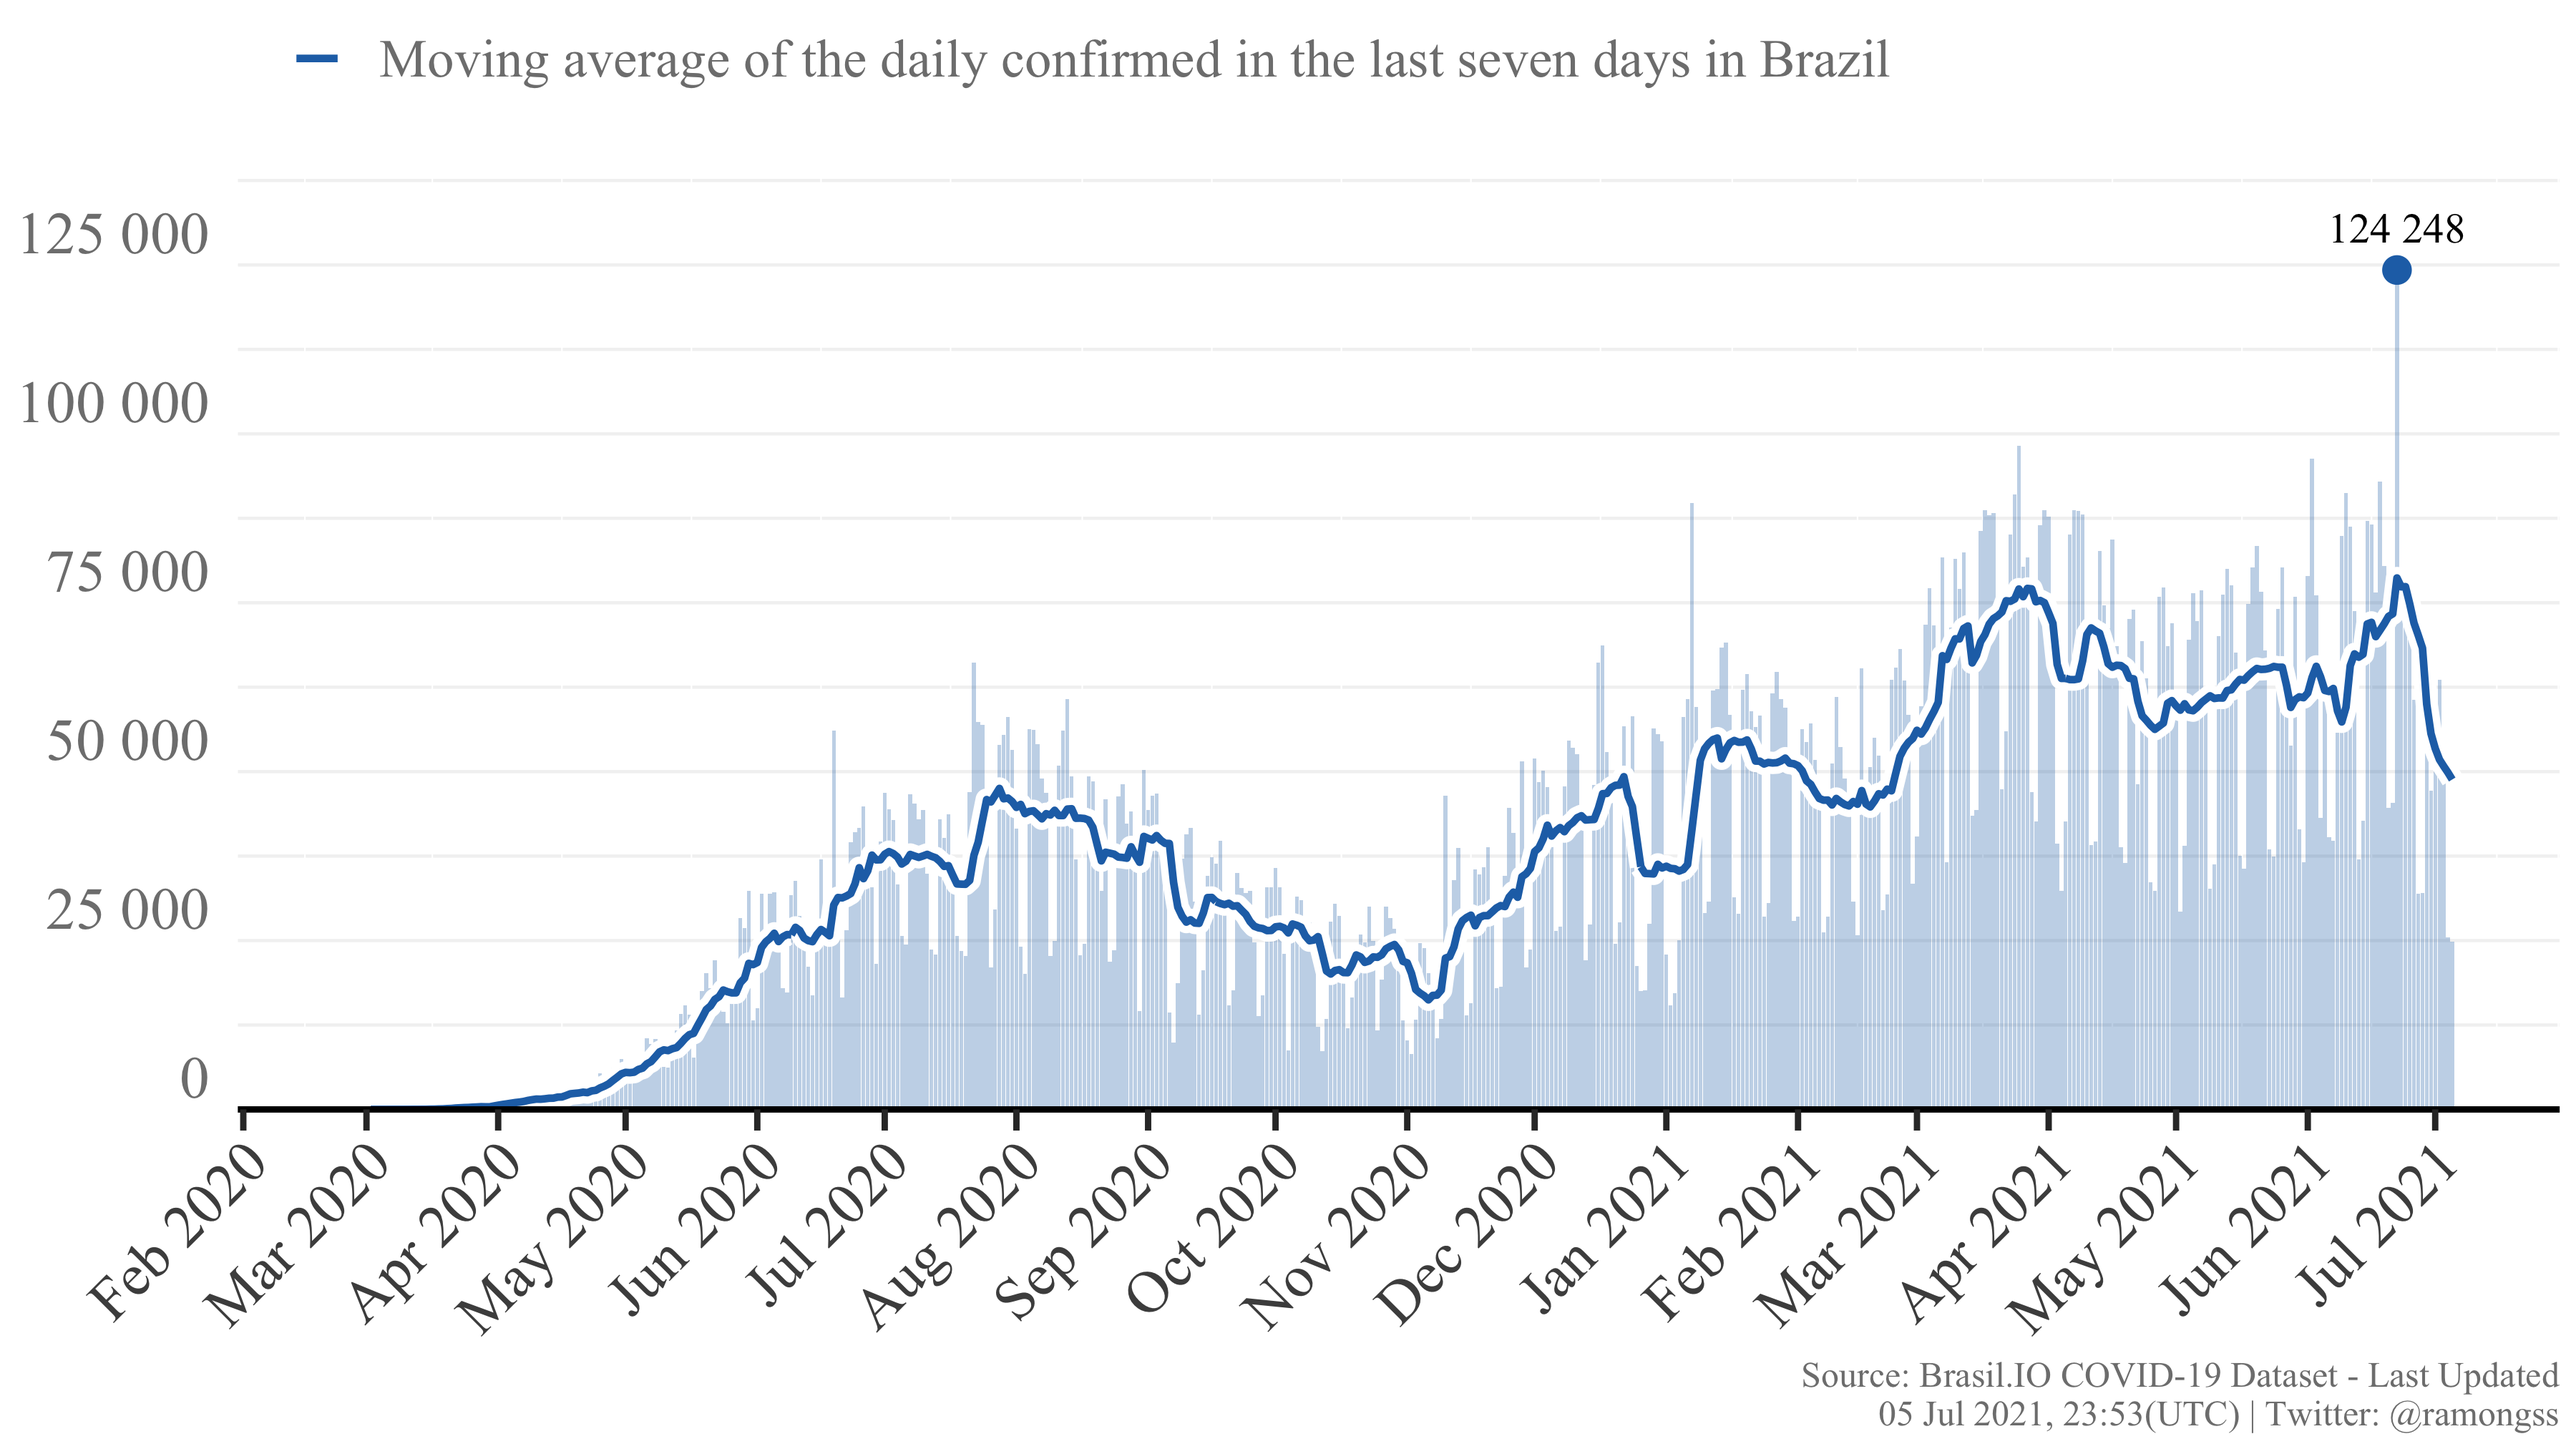
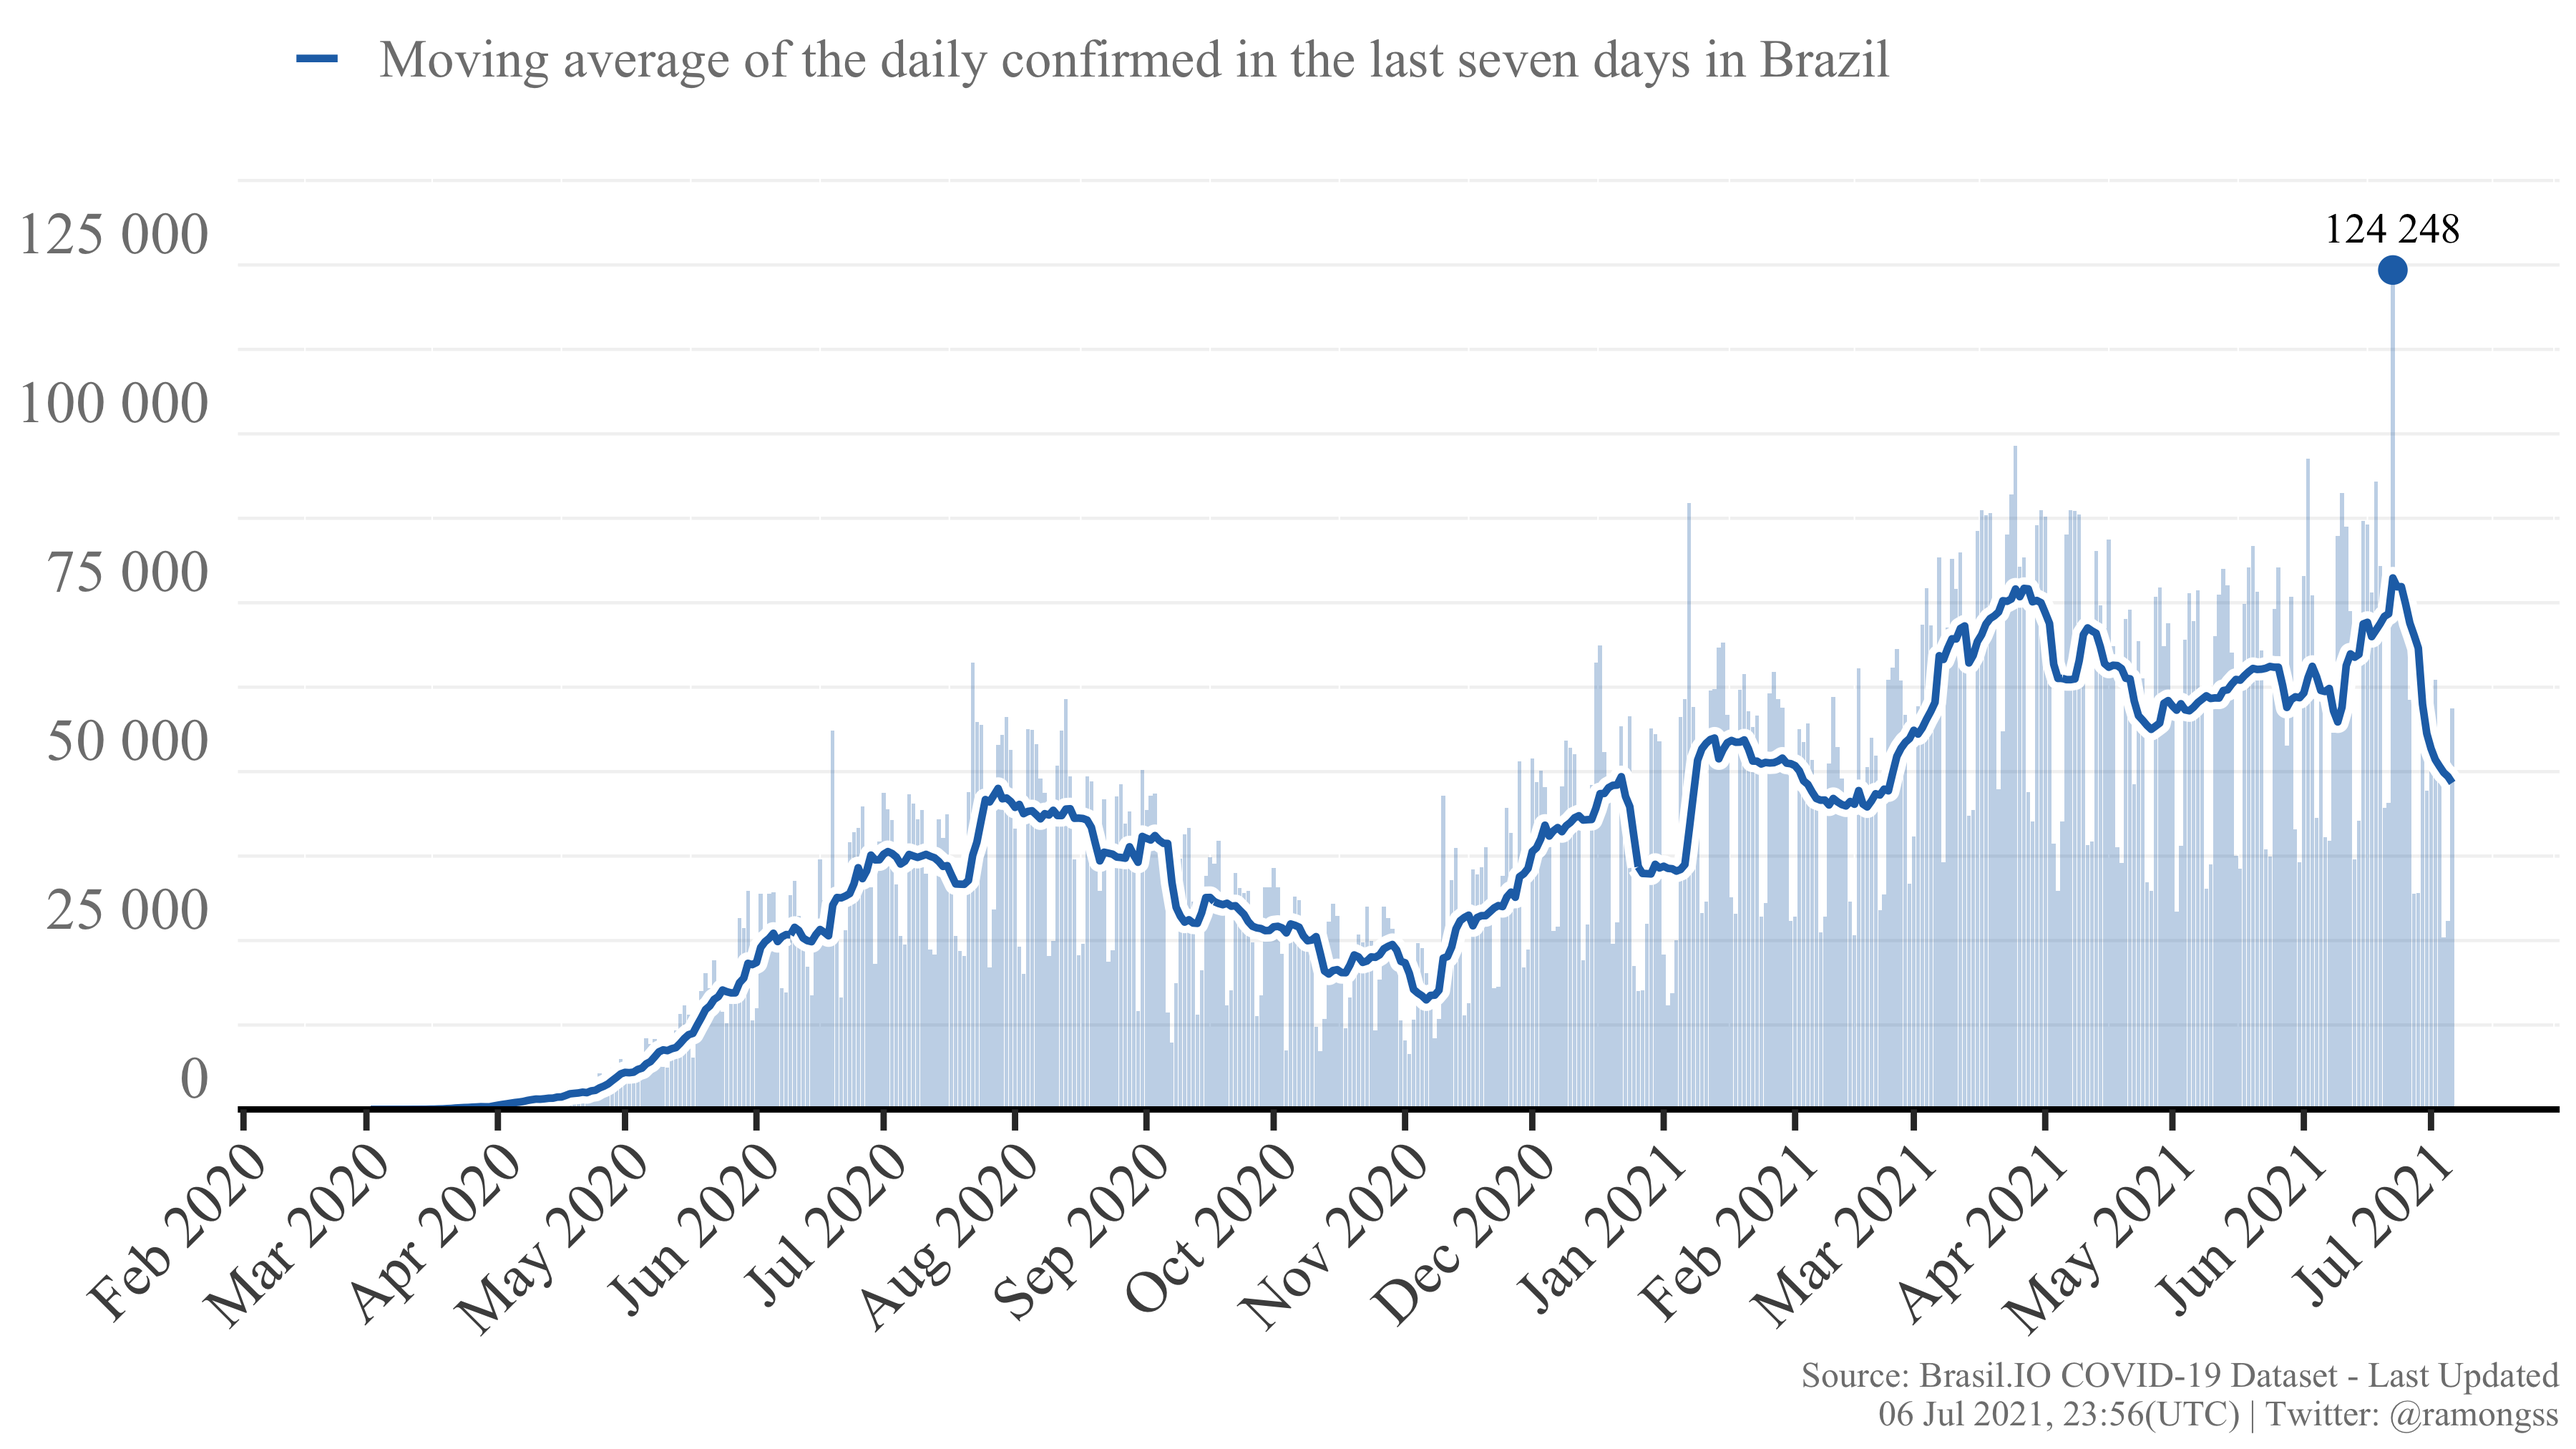
Re-build README.Rmd

diff --git a/README.md b/README.md
@@ -27,8 +27,8 @@ download_brasilio_table <- function(dataset = "covid19", table_name){
 
 ## COVID-19 Confirmed cases
 
-Currently, Brazil has a total of **18,799,033** confirmed cases at **05
-Jul, 2021**, with **24,840** new confirmed cases. The daily maximum
+Currently, Brazil has a total of **18,861,458** confirmed cases at **06
+Jul, 2021**, with **59,330** new confirmed cases. The daily maximum
 incidence was **124,248** confirmed cases at **22 Jun, 2021**. Here
 follows the Figure showing the confirmed case incidence as the bars, and
 the line as the moving average of the last 7 days.
@@ -37,8 +37,8 @@ the line as the moving average of the last 7 days.
 
 ## COVID-19 Deaths
 
-Currently, Brazil has a total of **525,434** deaths at **05 Jul, 2021**,
-with **731** new deaths. The daily maximum deaths incidence was
+Currently, Brazil has a total of **527,183** deaths at **06 Jul, 2021**,
+with **1,691** new deaths. The daily maximum deaths incidence was
 **4,148** deaths at **08 Apr, 2021**. Here follows the Figure showing
 the deaths incidence as the bars, and the line as the moving average of
 the last 7 days.
@@ -49,4 +49,4 @@ the last 7 days.
 
 This page is daily updated automatically using Github Actions.
 
-*Last update: 05 Jul 2021, 23:54 (UTC).*
+*Last update: 06 Jul 2021, 23:56 (UTC).*
